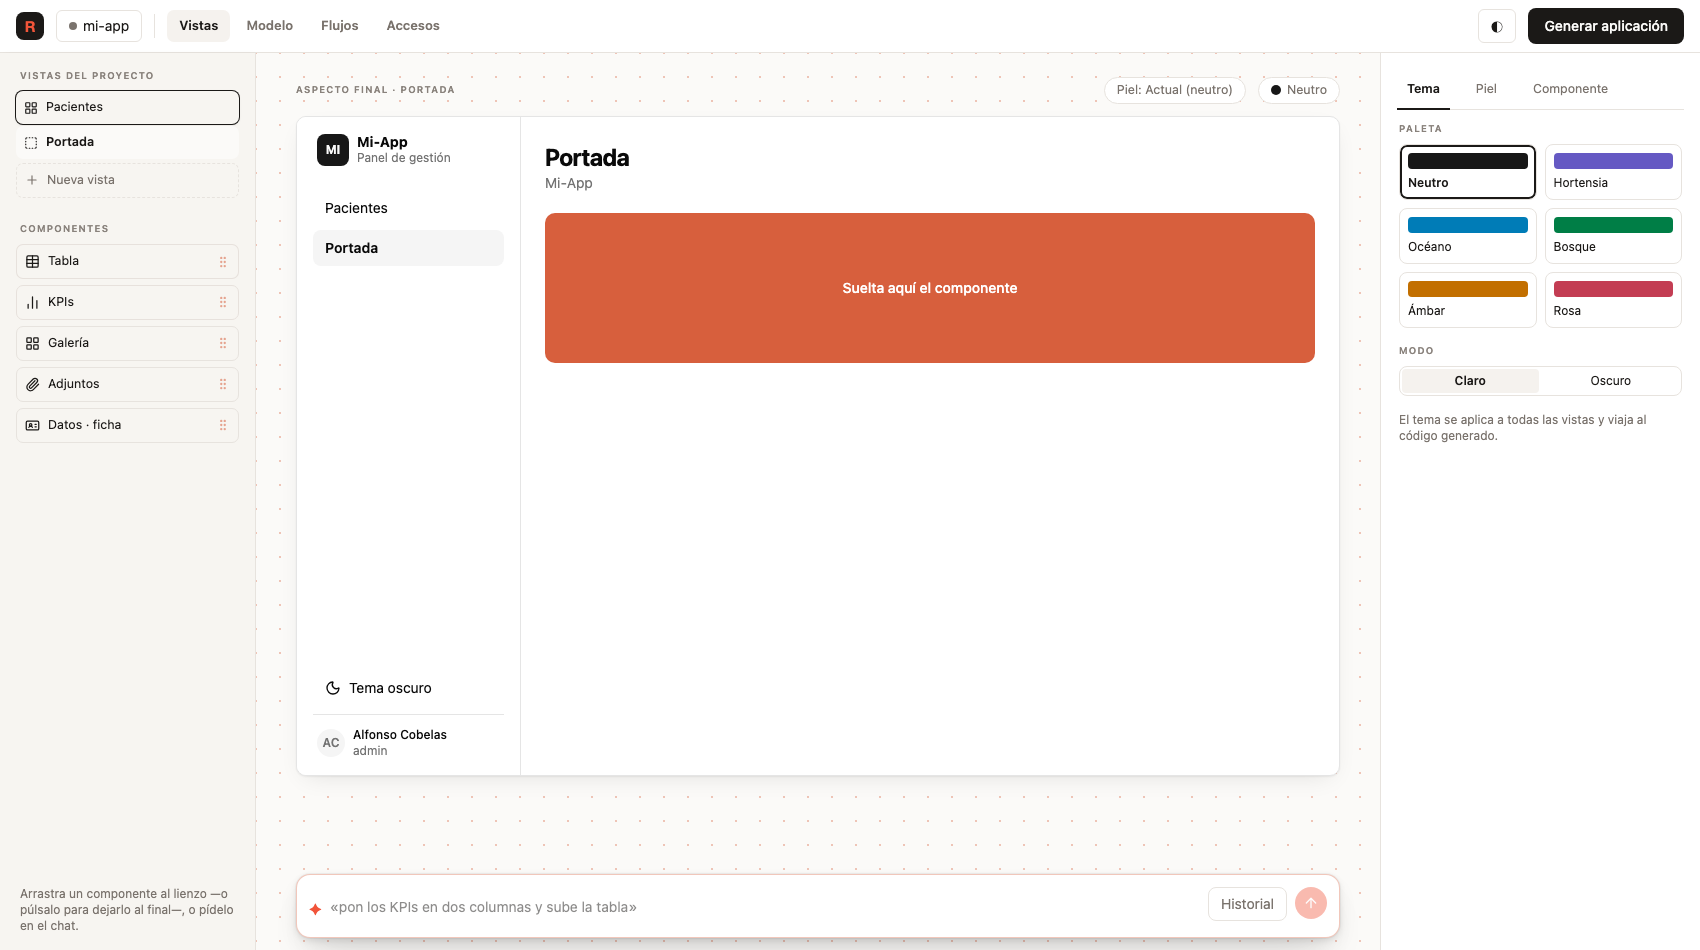
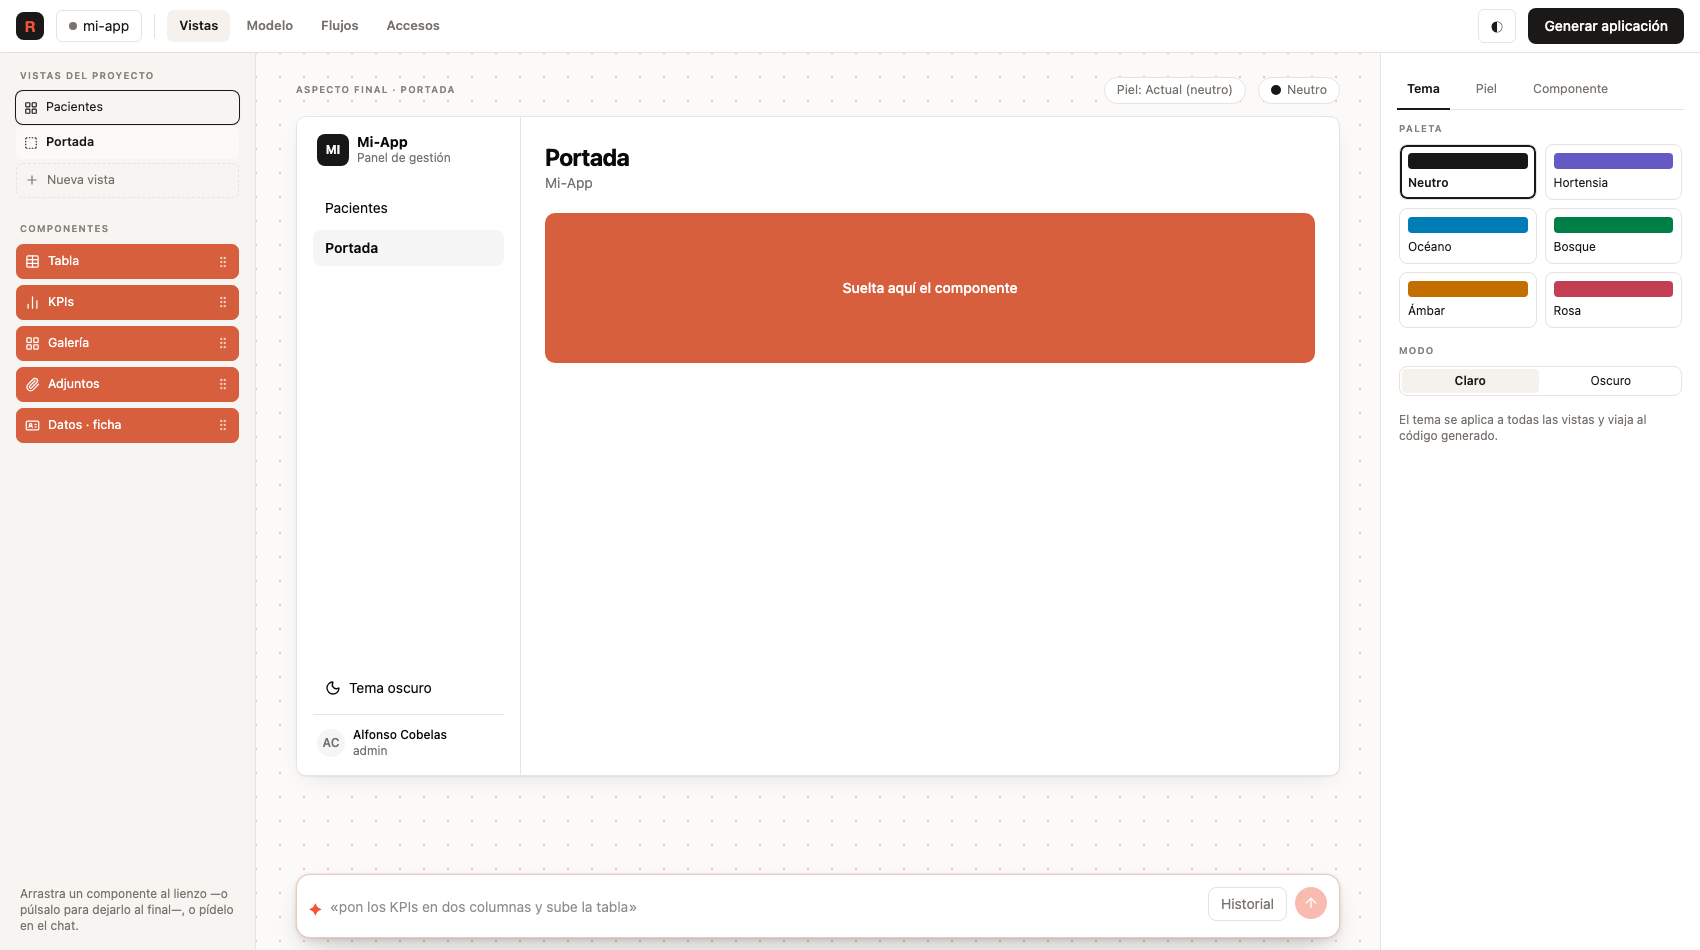
style(studio): the palette components wear the orange they drop in
They were neutral cards indistinguishable from the views above them. Painted
solid #d75f3d — the same ink as the guides they fall on — the rail says at a
glance which part of it is dragged, and the piece in the air sinks a shade
while the gesture lasts.

Changed region(s): [[0.0, 0.2442, 0.1559, 0.4884]]

diff --git a/apps/studio/libs/frontend/src/domains/studio/design/views-sidebar.component.ts b/apps/studio/libs/frontend/src/domains/studio/design/views-sidebar.component.ts
@@ -212,21 +212,21 @@ const BLOCK_TOOLS: BlockTool[] = [
        de arrastrar se reconoce por el color de punta a punta. */
     .block-tool {
       --studio-drag: #d75f3d;
-    }
-    .block-tool:not(:disabled):hover {
-      border-color: color-mix(in oklab, var(--studio-drag) 55%, transparent);
+      border-color: var(--studio-drag);
+      background-color: var(--studio-drag);
+      color: #fff;
     }
     .block-tool .grip {
-      color: color-mix(in oklab, var(--studio-drag) 55%, transparent);
+      color: color-mix(in oklab, #fff 70%, transparent);
     }
-    .block-tool:not(:disabled):hover .grip {
-      color: var(--studio-drag);
+    .block-tool:not(:disabled):hover {
+      background-color: color-mix(in oklab, var(--studio-drag) 88%, black);
+      border-color: color-mix(in oklab, var(--studio-drag) 88%, black);
     }
-    /* El que está en el aire se queda marcado en el raíl mientras dura el gesto. */
+    /* El que está en el aire se hunde un punto: se ve cuál de los cinco va en el gesto. */
     .block-tool.dragging {
-      border-color: var(--studio-drag);
-      background-color: color-mix(in oklab, var(--studio-drag) 8%, transparent);
-      color: var(--studio-drag);
+      background-color: color-mix(in oklab, var(--studio-drag) 75%, black);
+      border-color: color-mix(in oklab, var(--studio-drag) 75%, black);
     }
   `
 })
